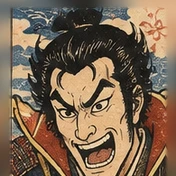
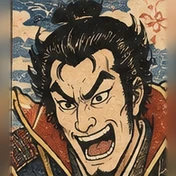
浮世絵版: 9人の顔の大きさ・位置を調整(SIZE・UP)
Claude-Session: https://claude.ai/code/session_015fwoRN5EZXb2K7SzR6LxUP

diff --git a/mahjong/tools/cut_ukiyoe.py b/mahjong/tools/cut_ukiyoe.py
@@ -17,6 +17,9 @@ EYE_T = 0.55
 EYE = [88, 93, 90, 95, 98, 95, 90, 93,   100, 105, 100, 100, 100, 108, 100, 90,   100, 92, 95, 85, 100, 100, 105, 95,   90, 85, 95, 85, 85, 90, 98, 90]
 import numpy as np
 SCALE = 0.88  # 顔の大きさ(1=パネルの横幅いっぱい)。小さくすると、まわりを足して、顔が小さく見える
+# 1人ずつの調整(番号は 1〜32)。 SIZE: 顔の大きさを、全体(SCALE)の何倍にするか / UP: 顔を上にあげる量(窓の高さに対する割合。0.05 = 5%)
+SIZE = {1: 0.90, 4: 0.95, 6: 0.95, 9: 0.95}
+UP = {1: 0.05, 2: 0.05, 3: 0.05, 4: 0.05, 5: 0.05, 6: 0.05, 20: 0.05, 26: 0.05}
 P = 60        # まわりを足す幅(鏡のように折り返す)
 im = Image.open(os.path.join(U, 'sheet_cpu.png')).convert('RGB')
 n = 0
@@ -27,8 +30,8 @@ for r in range(4):
         # 足したところは、折り返しを強くぼかして、ぼんやりした背景にする(模様が、ぎらぎらしないように)
         pim = Image.fromarray(pad); blur = pim.filter(ImageFilter.GaussianBlur(9)); mask = Image.new('L', pim.size, 0); mask.paste(255, (P, P, P + w, P + h)); mask = mask.filter(ImageFilter.GaussianBlur(1.5))
         pad = np.array(Image.composite(pim, blur, mask))
-        Wd = round(w / SCALE); left = P + (w - Wd) // 2                       # 窓の大きさ(正方形)と、左のはし(中央そろえ)
-        top = P + round(EYE[n - 1] - EYE_T * Wd); top = max(0, min(h + 2 * P - Wd, top))  # 目の線が、窓の EYE_T の高さに来るように
+        Wd = round(w / (SCALE * SIZE.get(n, 1))); left = P + (w - Wd) // 2                       # 窓の大きさ(正方形)と、左のはし(中央そろえ)
+        top = P + round(EYE[n - 1] - (EYE_T - UP.get(n, 0)) * Wd); top = max(0, min(h + 2 * P - Wd, top))  # 目の線が、窓の EYE_T の高さに来るように
         sq = Image.fromarray(pad[top:top + Wd, left:left + Wd]).resize((176, 176), Image.LANCZOS)
         sq.save(os.path.join(O, 'chars', 'face', '%02d.webp' % n), quality=90); sq.transpose(Image.FLIP_LEFT_RIGHT).save(os.path.join(O, 'chars', 'face', '%02d_f.webp' % n), quality=90)
 YL, YR = [12, 322, 634, 946], [307, 617, 930, 1243]; YT, YB = [12, 324, 635, 944], [309, 619, 930, 1244]
